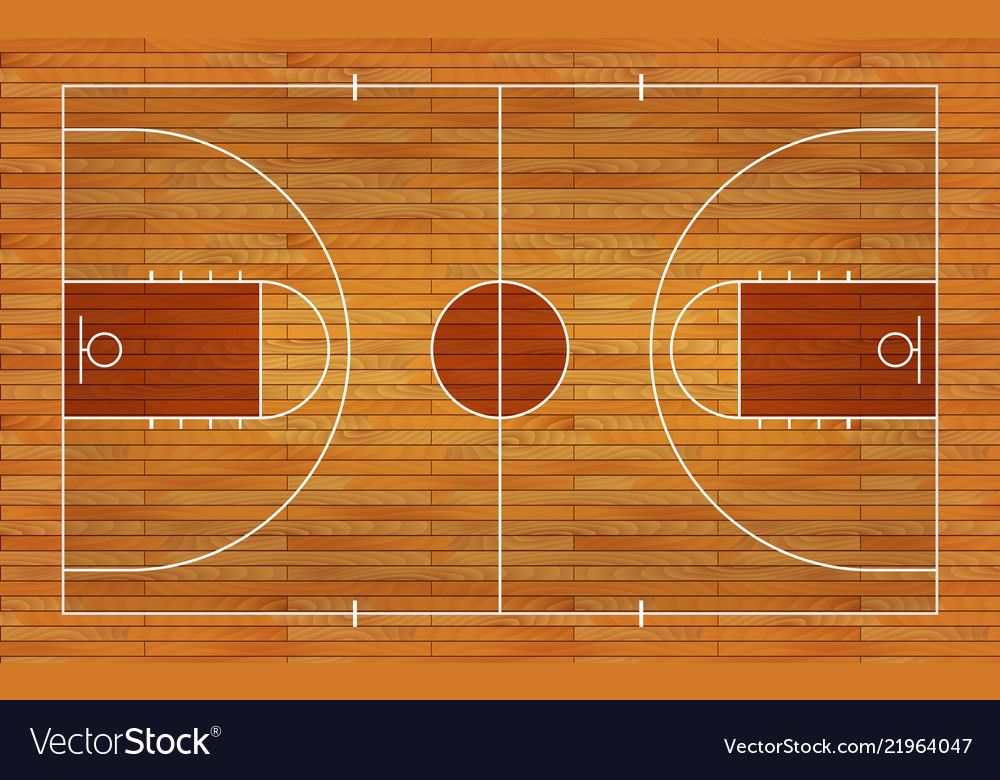
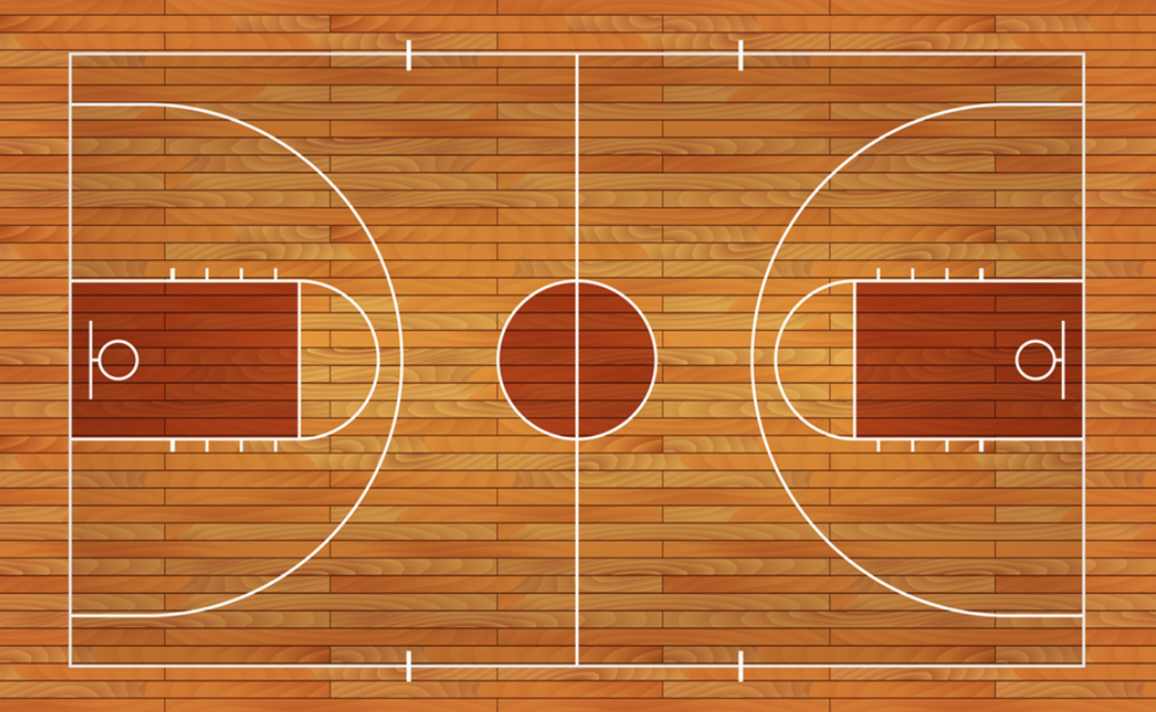
1/31 changes

diff --git a/Basketball Project/Basketball.html b/Basketball Project/Basketball.html
@@ -8,12 +8,23 @@
         background:url('basketballcourt.png') no-repeat center center;
         position:absolute;
         background-size:contain;
-        height:500px;
-        width:500px;
+        height:800px;
+        width:1400px;
+    }
+
+    #basketball{
+        background:url('Basketball.png') no-repeat center center;
+        position:absolute;
+        background-size:contain;
+        height:20px;
+        width:20px;
+        left:500px;
+        top:400px;
     }
    </style>
 </head>
     <body>
     <img id="basketballcourt" src='basketballcourt.png'>
+    <img id="basketball" src='Basketball.png'>
     </body>
 </html>
